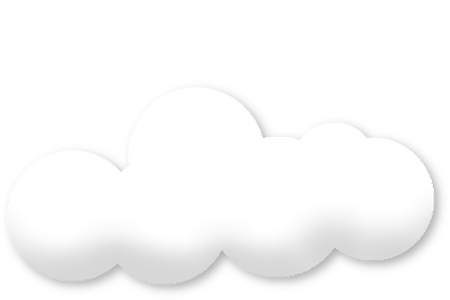
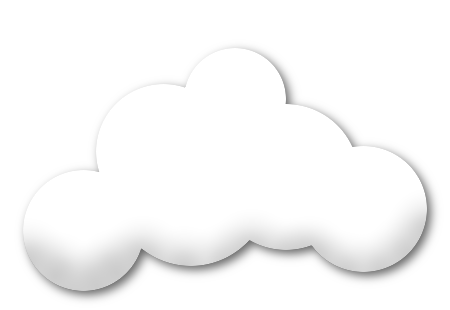
Tweaking

diff --git a/js/all.js b/js/all.js
@@ -372,7 +372,7 @@ var Clouds = function (num) {
 		var cloud = new Bitmap(this.bitmapData[rand]);
 
 		cloud.x = i * (Math.random() * 500 + 500);
-		cloud.y = Math.random() * 1500 - 1300;
+		cloud.y = Math.random() * 2000 - 1800;
 		cloud.scaleX = cloud.scaleY = Math.random() * 0.8 + 0.5;
 
 		Game.stage.addChild(cloud);
@@ -408,12 +408,12 @@ var Clouds = function (num) {
 			// The cloud is off to the left and we're moving right - respawn it to the right
 			if (direction == 1 && (cloudX + cloudW) < (stageX)) {
 				this.clouds[i].x = (Math.random() * (stageW * 4) + stageW + stageX);
-				this.clouds[i].y = Math.random() * 1500 - 1300;
+				this.clouds[i].y = Math.random() * 2000 - 1800;
 			}
 			// The cloud is out to the right and we're moving left - respawn it to the left
 			if (direction == -1 && cloudX > (stageW + stageX)) {
 				this.clouds[i].x = (-(Math.random() * (stageW * 4) + stageW) + stageX);
-				this.clouds[i].y = Math.random() * 1500 - 1300;
+				this.clouds[i].y = Math.random() * 2000 - 1800;
 			}
 		}
 
@@ -586,7 +586,7 @@ var Game = {
 		Game.addSky();
 
 		// Add clouds
-		Game.clouds = new Clouds(4);
+		Game.clouds = new Clouds(8);
 	//	Game.addClouds(6);
 
 		// Add some pickups

diff --git a/js/03-clouds.js b/js/03-clouds.js
@@ -13,7 +13,7 @@ var Clouds = function (num) {
 		var cloud = new Bitmap(this.bitmapData[rand]);
 
 		cloud.x = i * (Math.random() * 500 + 500);
-		cloud.y = Math.random() * 1500 - 1300;
+		cloud.y = Math.random() * 2000 - 1800;
 		cloud.scaleX = cloud.scaleY = Math.random() * 0.8 + 0.5;
 
 		Game.stage.addChild(cloud);
@@ -49,12 +49,12 @@ var Clouds = function (num) {
 			// The cloud is off to the left and we're moving right - respawn it to the right
 			if (direction == 1 && (cloudX + cloudW) < (stageX)) {
 				this.clouds[i].x = (Math.random() * (stageW * 4) + stageW + stageX);
-				this.clouds[i].y = Math.random() * 1500 - 1300;
+				this.clouds[i].y = Math.random() * 2000 - 1800;
 			}
 			// The cloud is out to the right and we're moving left - respawn it to the left
 			if (direction == -1 && cloudX > (stageW + stageX)) {
 				this.clouds[i].x = (-(Math.random() * (stageW * 4) + stageW) + stageX);
-				this.clouds[i].y = Math.random() * 1500 - 1300;
+				this.clouds[i].y = Math.random() * 2000 - 1800;
 			}
 		}
 

diff --git a/js/09-game.js b/js/09-game.js
@@ -93,7 +93,7 @@ var Game = {
 		Game.addSky();
 
 		// Add clouds
-		Game.clouds = new Clouds(4);
+		Game.clouds = new Clouds(8);
 	//	Game.addClouds(6);
 
 		// Add some pickups
